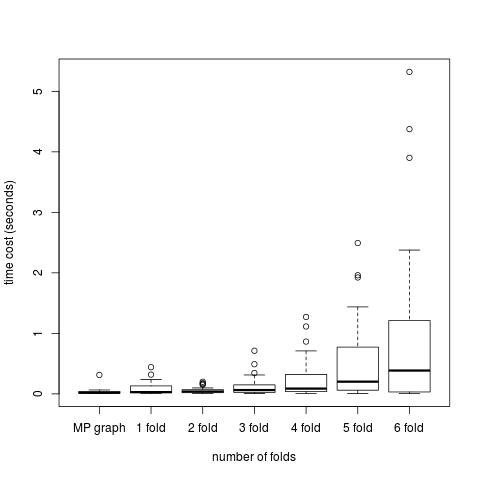
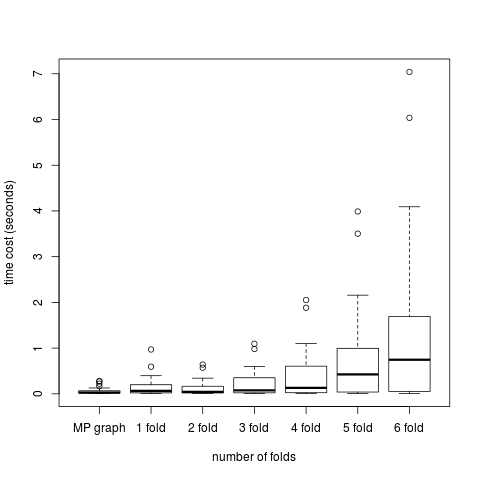
rerun benchmark program to get new diagram

diff --git a/scripts/benchmarkQueries/benchMarkQueries.py b/scripts/benchmarkQueries/benchMarkQueries.py
@@ -14,9 +14,9 @@ from datetime import datetime
 ################################################################################
 QUERIES_PATH = "../../queries/benchmark-queries/"
 
-sparql = SPARQLWrapper("http://dbmi-icode-01.dbmi.pitt.edu/sparql")
+#sparql = SPARQLWrapper("http://dbmi-icode-01.dbmi.pitt.edu/sparql")
 #sparql = SPARQLWrapper("https://dbmi-icode-01.dbmi.pitt.edu/sparql")
-#sparql = SPARQLWrapper("http://localhost:8890/sparql")
+sparql = SPARQLWrapper("http://localhost:8890/sparql")
 
 
 
